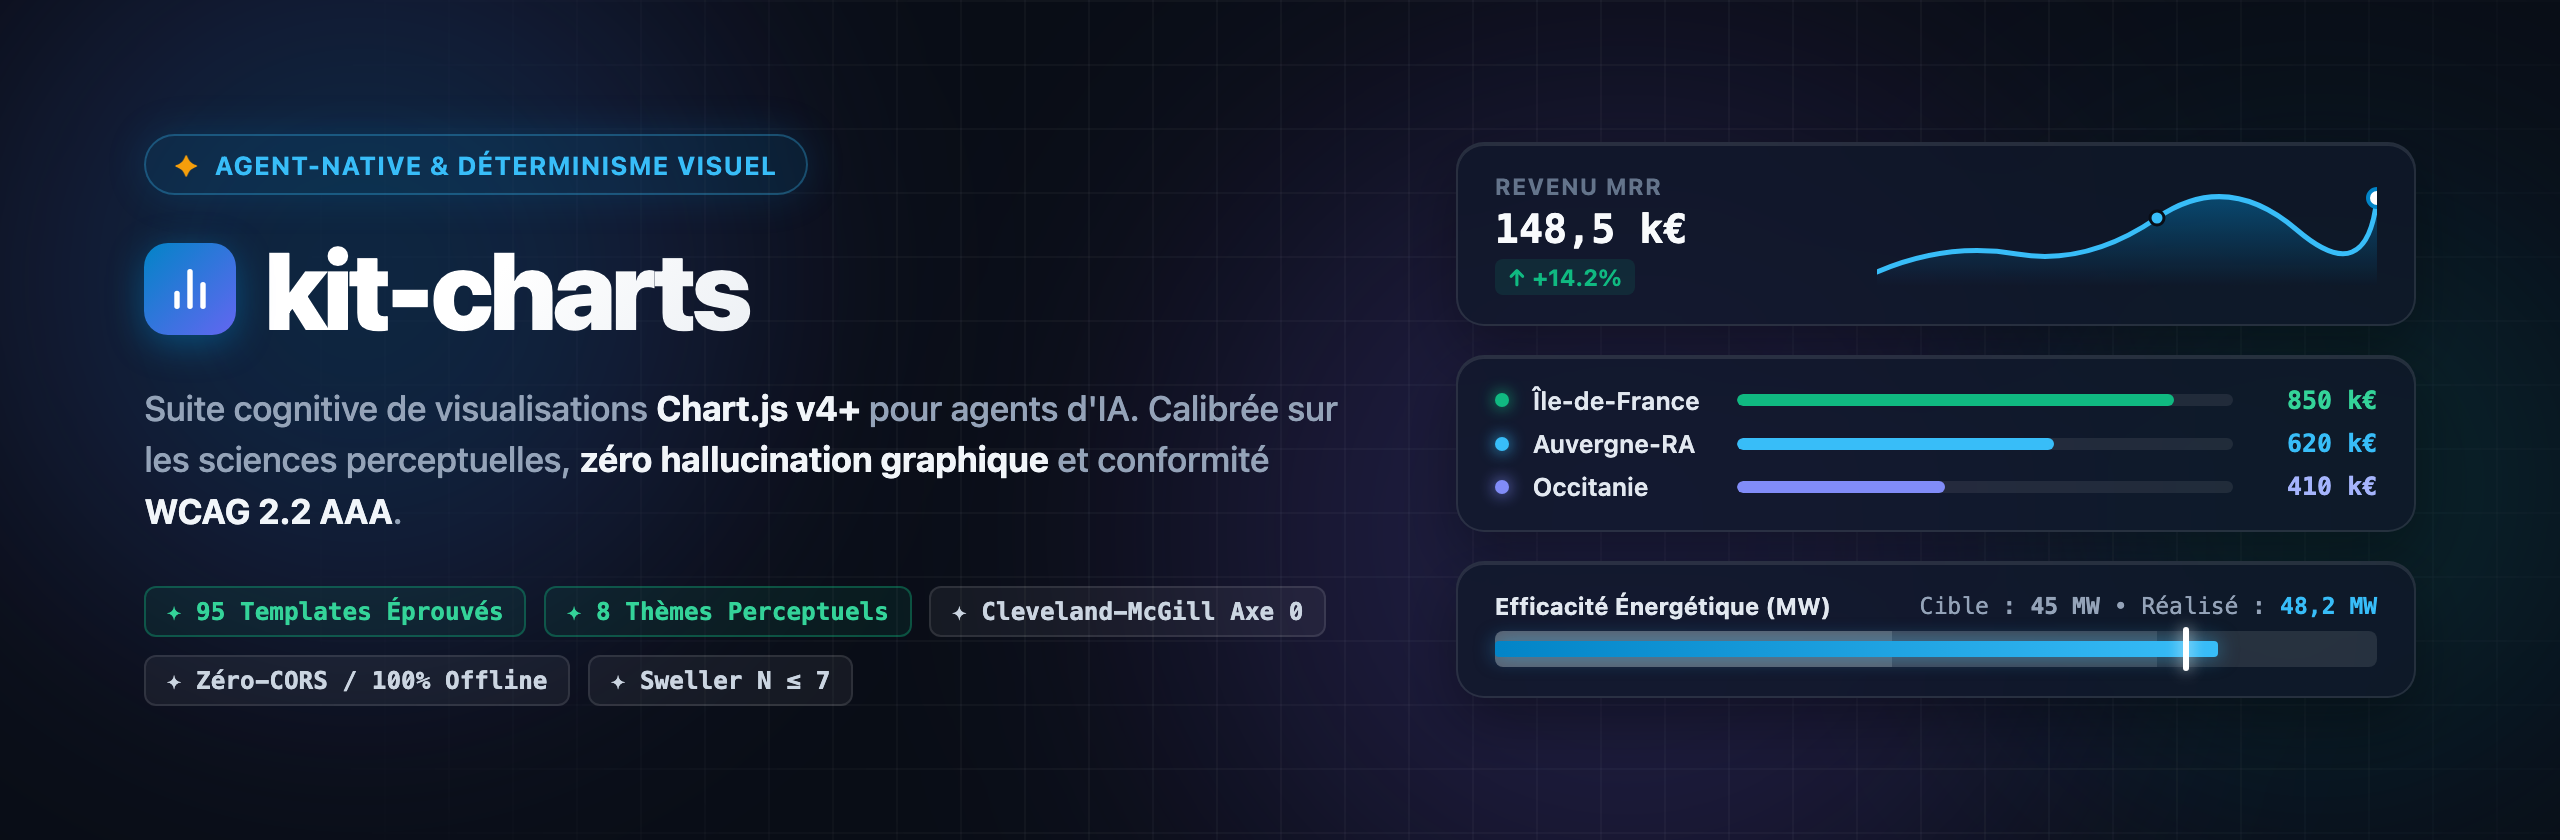
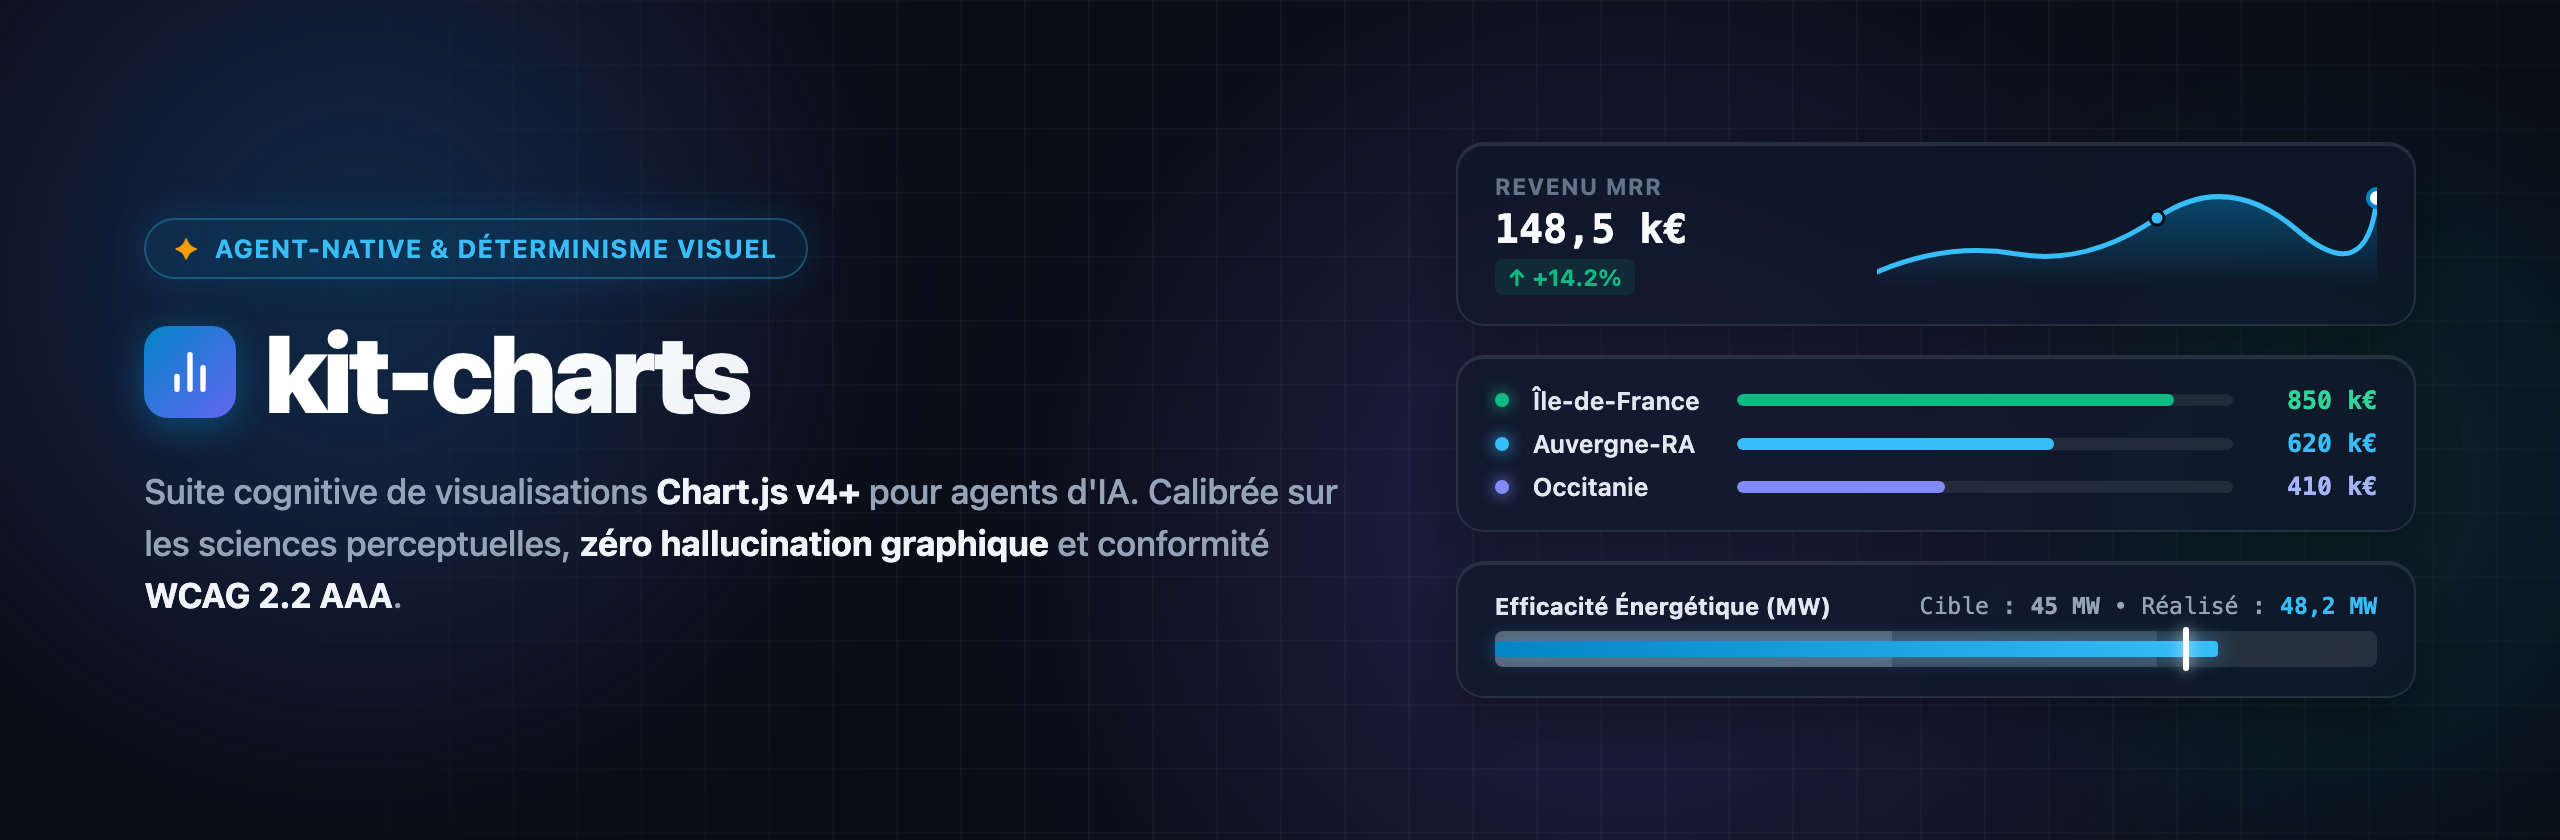
docs: ajustement de la banniere en retirant les tags inferieurs

diff --git a/docs/banniere.html b/docs/banniere.html
@@ -380,14 +380,6 @@
       Suite cognitive de visualisations <strong>Chart.js v4+</strong> pour agents d'IA. 
       Calibrée sur les sciences perceptuelles, <strong>zéro hallucination graphique</strong> et conformité <strong>WCAG 2.2 AAA</strong>.
     </p>
-
-    <div class="feature-tags">
-      <span class="feat-tag highlight">✦ 95 Templates Éprouvés</span>
-      <span class="feat-tag highlight">✦ 8 Thèmes Perceptuels</span>
-      <span class="feat-tag">✦ Cleveland-McGill Axe 0</span>
-      <span class="feat-tag">✦ Zéro-CORS / 100% Offline</span>
-      <span class="feat-tag">✦ Sweller N ≤ 7</span>
-    </div>
   </div>
 
   <!-- Right: 3 Floating Dataviz Cards -->
